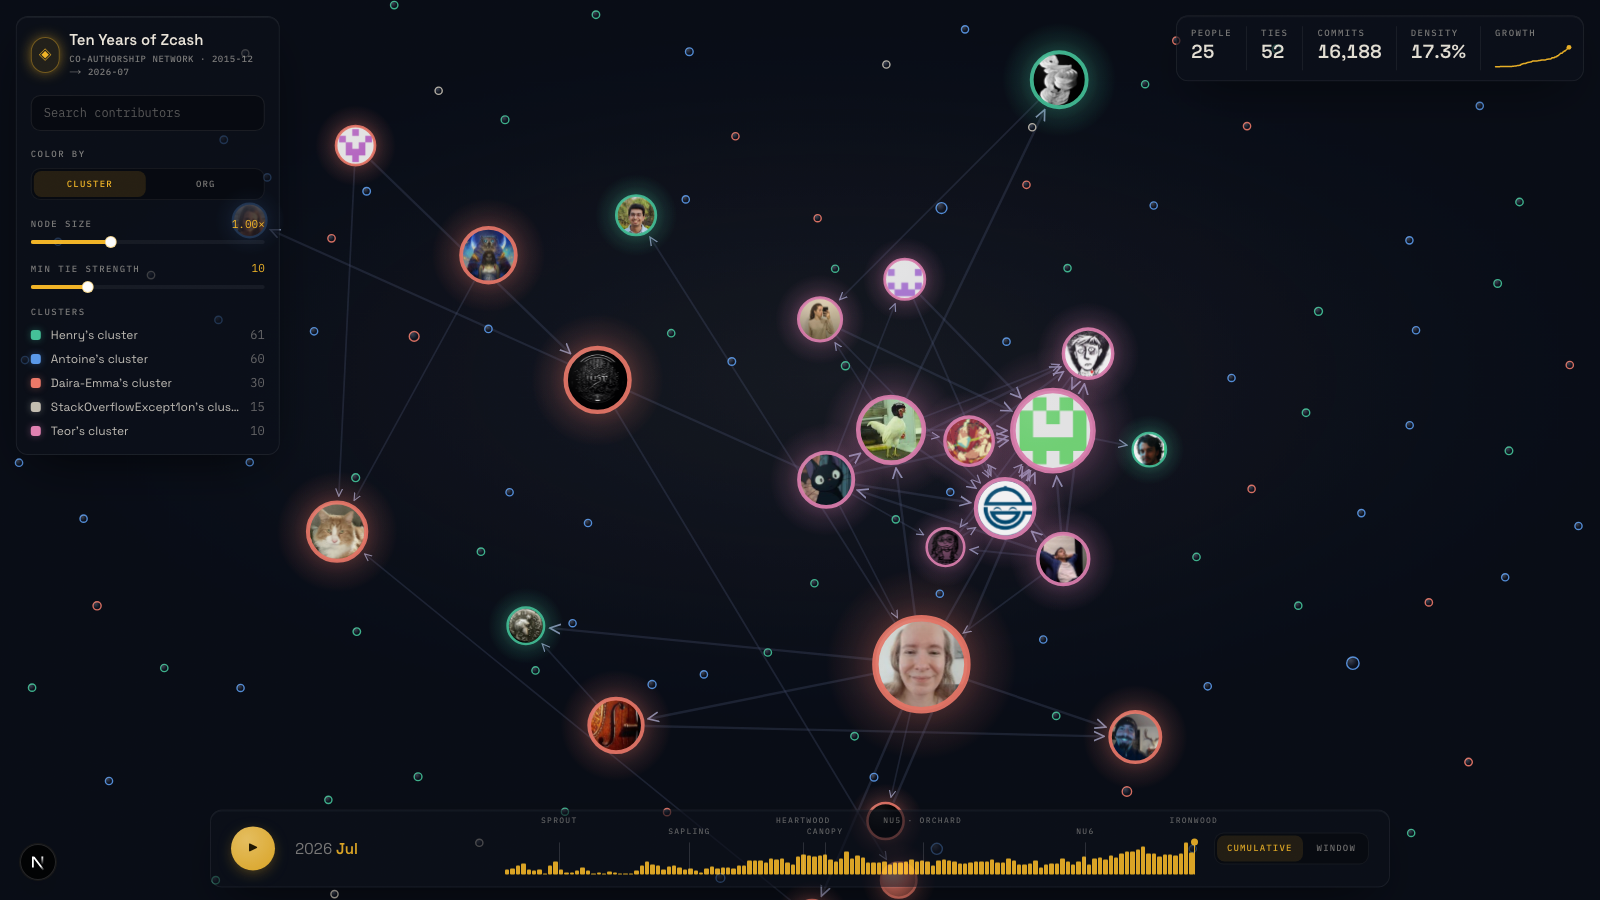
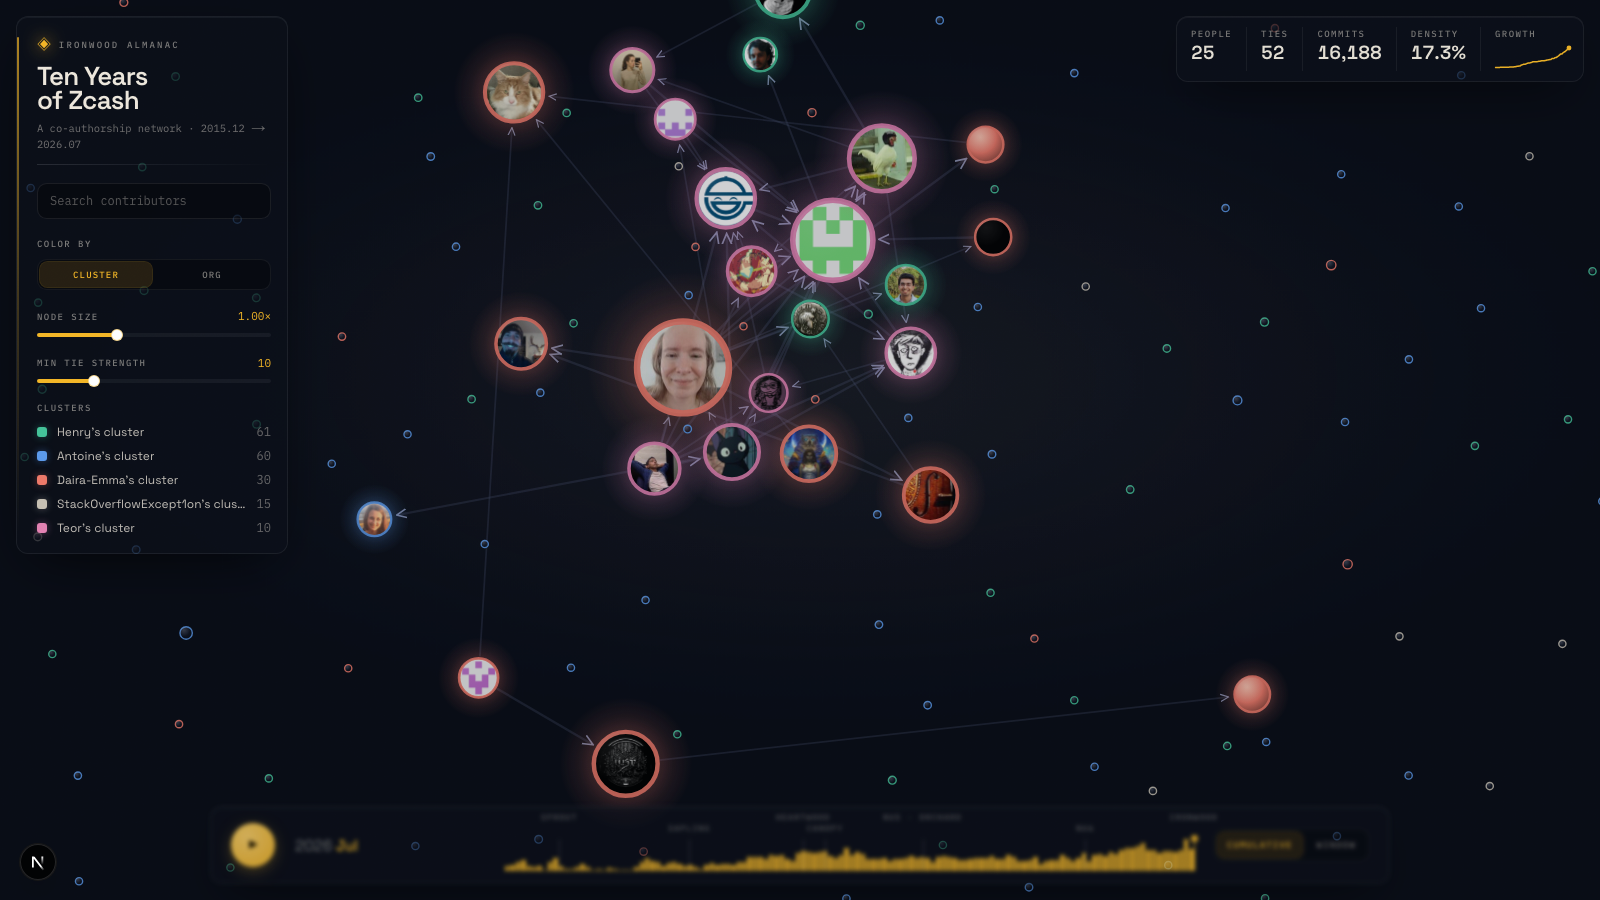
feat(viz): Framer Motion + editorial character (less templated)
Replace CSS animate classes with Motion: spring rise-and-unblur panel entrances,
shared-layout sliding pill on segmented toggles, spring/AnimatePresence play
button. Rework the masthead into an editorial lockup (Ironwood Almanac eyebrow,
bold two-line title, dotted dates, hairline rule, gold left-accent) to shed the
generic glass-dashboard look. Adds the motion dependency.

diff --git a/projects/Giri-Aayush/web-next/src/app/page.tsx b/projects/Giri-Aayush/web-next/src/app/page.tsx
@@ -1,12 +1,20 @@
 "use client";
 
 import { useEffect } from "react";
+import { motion } from "motion/react";
 import { useViz } from "@/lib/store";
 import GraphCanvas from "@/components/GraphCanvas";
 import StatsBar from "@/components/StatsBar";
 import ControlPanel from "@/components/ControlPanel";
 import Timeline from "@/components/Timeline";
 import Tooltip from "@/components/Tooltip";
+
+// cinematic rise-and-unblur, spring-settled
+const rise = (dir: "left" | "top" | "bottom", delay: number) => ({
+  initial: { opacity: 0, filter: "blur(7px)", ...(dir === "left" ? { x: -26 } : { y: dir === "top" ? -22 : 30 }) },
+  animate: { opacity: 1, filter: "blur(0px)", x: 0, y: 0 },
+  transition: { type: "spring" as const, stiffness: 90, damping: 17, delay },
+});
 
 export default function Home() {
   const load = useViz((s) => s.load);
@@ -33,24 +41,20 @@ export default function Home() {
       />
 
       {/* graph fills the stage */}
-      <div className="absolute inset-0 animate-in fade-in duration-1000">
+      <motion.div className="absolute inset-0" initial={{ opacity: 0 }} animate={{ opacity: 1 }} transition={{ duration: 1.2, ease: "easeOut" }}>
         {data ? <GraphCanvas /> : <Loading />}
-      </div>
+      </motion.div>
 
-      {/* floating chrome — staggered entrance */}
+      {/* floating chrome — spring-staggered entrance */}
       <div className="pointer-events-none absolute inset-0 flex flex-col justify-between p-4">
         <div className="flex items-start justify-between gap-4">
-          <div className="animate-in fade-in slide-in-from-left-6 fill-mode-both delay-100 duration-700 ease-out">
-            <ControlPanel />
-          </div>
-          <div className="animate-in fade-in slide-in-from-top-4 fill-mode-both delay-200 duration-700 ease-out">
-            <StatsBar />
-          </div>
+          <motion.div {...rise("left", 0.15)}><ControlPanel /></motion.div>
+          <motion.div {...rise("top", 0.3)}><StatsBar /></motion.div>
         </div>
         <div className="flex justify-center">
-          <div className="pointer-events-auto w-full max-w-[1180px] animate-in fade-in slide-in-from-bottom-8 fill-mode-both delay-300 duration-700 ease-out">
+          <motion.div className="pointer-events-auto w-full max-w-[1180px]" {...rise("bottom", 0.45)}>
             <Timeline />
-          </div>
+          </motion.div>
         </div>
       </div>
 

diff --git a/projects/Giri-Aayush/web-next/src/components/ControlPanel.tsx b/projects/Giri-Aayush/web-next/src/components/ControlPanel.tsx
@@ -29,18 +29,23 @@ export default function ControlPanel() {
   if (!data) return null;
 
   return (
-    <div className="glass pointer-events-auto flex w-[264px] flex-col gap-4 p-3.5">
-      {/* header */}
-      <div className="flex items-center gap-2.5">
-        <div className="grid size-9 place-items-center rounded-full border border-gold/40 bg-gold/10 text-gold shadow-[0_0_16px_-4px_var(--gold)]">
-          <span className="text-[15px]">◈</span>
+    <div className="glass pointer-events-auto relative flex w-[272px] flex-col gap-[18px] p-4 pl-5">
+      {/* signature: a thin gold accent down the left edge */}
+      <span className="absolute left-0 top-5 bottom-5 w-[2px] rounded-full bg-gradient-to-b from-gold/70 via-gold/25 to-transparent" />
+
+      {/* editorial masthead */}
+      <div>
+        <div className="mb-2 flex items-center gap-2">
+          <span className="text-gold" style={{ filter: "drop-shadow(0 0 8px var(--gold))" }}>◈</span>
+          <span className="label text-gold/70" style={{ letterSpacing: "0.24em" }}>Ironwood Almanac</span>
         </div>
-        <div>
-          <h1 className="font-display text-[15px] leading-tight font-semibold">Ten Years of Zcash</h1>
-          <p className="label mt-0.5" style={{ letterSpacing: "0.06em" }}>
-            Co-authorship network · {data.meta.months[0]} → {data.meta.months.at(-1)}
-          </p>
-        </div>
+        <h1 className="font-display text-[26px] font-semibold leading-[0.92] tracking-[-0.03em]">
+          Ten Years<br />of Zcash
+        </h1>
+        <p className="mono mt-2 text-[10.5px] text-foreground/45">
+          A co-authorship network · {data.meta.months[0]?.replace("-", ".")} → {data.meta.months.at(-1)?.replace("-", ".")}
+        </p>
+        <div className="mt-3 h-px w-full bg-gradient-to-r from-white/12 to-transparent" />
       </div>
 
       {/* search */}

diff --git a/projects/Giri-Aayush/web-next/src/components/Timeline.tsx b/projects/Giri-Aayush/web-next/src/components/Timeline.tsx
@@ -1,6 +1,7 @@
 "use client";
 
 import { useEffect, useRef } from "react";
+import { AnimatePresence, motion } from "motion/react";
 import { useViz } from "@/lib/store";
 import { MILESTONES, prettyMonth } from "@/lib/graph";
 import { Segmented } from "./Segmented";
@@ -40,18 +41,27 @@ export default function Timeline() {
   return (
     <div className="glass pointer-events-auto flex items-center gap-5 px-5 py-3">
       {/* play */}
-      <button
+      <motion.button
         onClick={togglePlay}
         aria-label={playing ? "Pause" : "Play"}
-        className="grid size-11 flex-none place-items-center rounded-full text-[13px] transition-transform hover:scale-105 active:scale-95"
+        whileHover={{ scale: 1.08 }}
+        whileTap={{ scale: 0.9 }}
+        transition={{ type: "spring", stiffness: 500, damping: 20 }}
+        className="grid size-11 flex-none place-items-center rounded-full text-[13px]"
         style={{
           background: playing ? "rgba(255,255,255,0.06)" : "radial-gradient(circle at 36% 30%, #ffd469, var(--gold))",
           color: playing ? "#ede7dc" : "#241a00",
-          boxShadow: playing ? "none" : "0 4px 16px -4px rgba(244,183,40,0.5)",
+          boxShadow: playing ? "none" : "0 4px 18px -4px rgba(244,183,40,0.55)",
         }}
       >
-        {playing ? "❚❚" : "▶"}
-      </button>
+        <AnimatePresence mode="wait" initial={false}>
+          <motion.span key={playing ? "pause" : "play"}
+            initial={{ opacity: 0, scale: 0.5 }} animate={{ opacity: 1, scale: 1 }} exit={{ opacity: 0, scale: 0.5 }}
+            transition={{ duration: 0.15 }}>
+            {playing ? "❚❚" : "▶"}
+          </motion.span>
+        </AnimatePresence>
+      </motion.button>
 
       {/* month + milestone pill */}
       <div className="flex w-[190px] flex-none items-center gap-3">

diff --git a/projects/Giri-Aayush/web-next/src/components/Segmented.tsx b/projects/Giri-Aayush/web-next/src/components/Segmented.tsx
@@ -1,5 +1,8 @@
 "use client";
 
+import { useId } from "react";
+import { motion } from "motion/react";
+
 export function Segmented<T extends string>({
   value, onChange, options,
 }: {
@@ -7,20 +10,29 @@ export function Segmented<T extends string>({
   onChange: (v: T) => void;
   options: { value: T; label: string }[];
 }) {
+  const uid = useId();
   return (
-    <div className="flex gap-1 rounded-lg border border-white/[0.06] bg-black/30 p-0.5">
+    <div className="relative flex gap-1 rounded-lg border border-white/[0.06] bg-black/30 p-0.5">
       {options.map((o) => {
         const on = o.value === value;
         return (
           <button
             key={o.value}
             onClick={() => onChange(o.value)}
-            className={`label flex-1 rounded-md px-2.5 py-1.5 transition-colors ${
-              on ? "bg-gold/[0.13] text-gold" : "text-foreground/45 hover:text-foreground/80"
+            className={`label relative flex-1 rounded-md px-2.5 py-1.5 transition-colors ${
+              on ? "text-gold" : "text-foreground/45 hover:text-foreground/80"
             }`}
             style={{ letterSpacing: "0.13em" }}
           >
-            {o.label}
+            {/* the active pill slides between options with a spring */}
+            {on && (
+              <motion.span
+                layoutId={`seg-${uid}-active`}
+                className="absolute inset-0 -z-0 rounded-md bg-gold/[0.13] ring-1 ring-gold/20"
+                transition={{ type: "spring", stiffness: 380, damping: 30 }}
+              />
+            )}
+            <span className="relative z-10">{o.label}</span>
           </button>
         );
       })}
